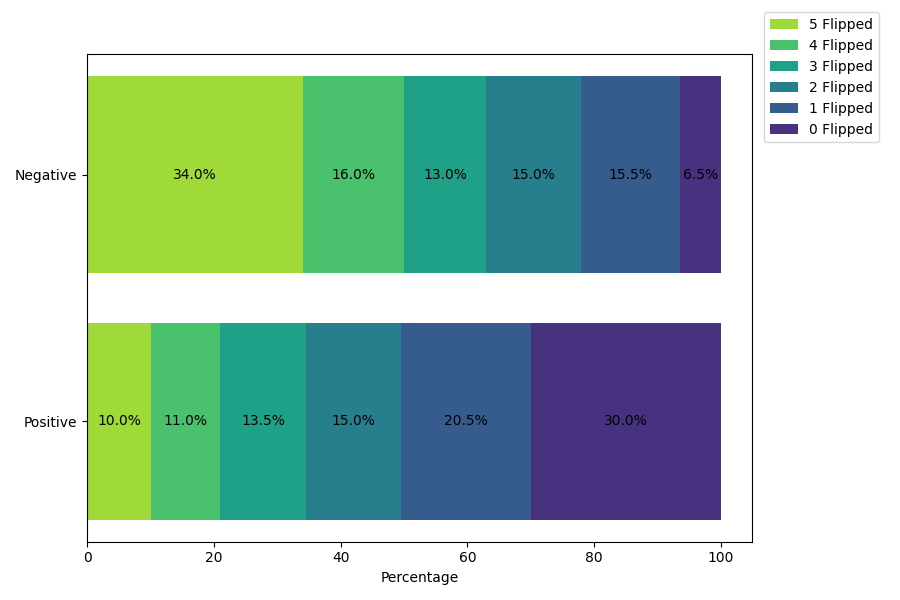
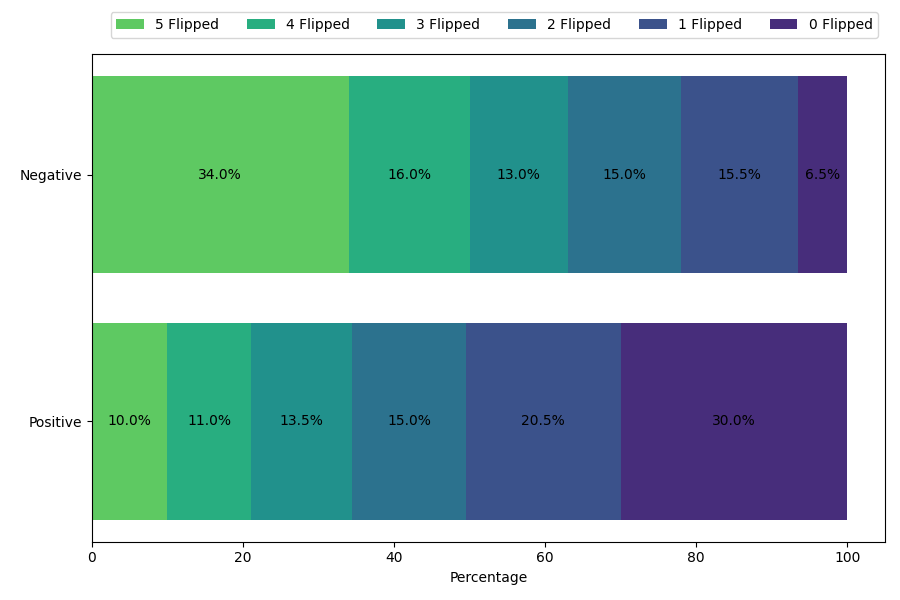
fixed color gradient

diff --git a/analysis/visualize.py b/analysis/visualize.py
@@ -63,8 +63,8 @@ def generate_labels_csv(models_dir, human_annotations_path):
 
 # Function to determine color based on value
 def get_color(value):
-    norm = Normalize(vmin=0, vmax=7)
-    return plt.cm.viridis(norm(6-value))
+    norm = Normalize(vmin=0, vmax=8)
+    return plt.cm.viridis(norm(7-value))
 
 def mean_absolute_distance(v1, v2):
     return np.mean(np.abs(v1 - v2)).round(2)
@@ -280,7 +280,7 @@ def run_analysis(models_dir, human_annotations_path, out_dir):
     lefts = np.zeros(len(col_names))
 
     for i, category in enumerate(categories):
-        color = get_color(i)
+        color = get_color(i+1)
 
         bar = ax.barh(col_names, flipped_percentage[:, i], left=lefts, label=category, color=color)
         bars.append(bar)
@@ -295,7 +295,7 @@ def run_analysis(models_dir, human_annotations_path, out_dir):
 
     # Adding labels and title
     ax.set_xlabel('Percentage')
-    ax.legend(loc='upper right', bbox_to_anchor=(1.2, 1.1))
+    ax.legend(loc='upper right', bbox_to_anchor=(1, 1.10), ncol=len(categories))
     plt.tight_layout()
 
     # Show the plot
@@ -347,9 +347,9 @@ def plot_model_distribution(all_model_results, model_names, key, dir_path):
     bars = []
     lefts = np.zeros(len(model_names))
     for i, category in enumerate(categories):
-        norm = Normalize(vmin=0, vmax=7)
-        value = (i * 2) + 1
-        color = plt.cm.viridis(norm(6 - value))
+        norm = Normalize(vmin=0, vmax=8)
+        value = (i * 2.5) + 1
+        color = plt.cm.viridis(norm(7 - value))
         bar = ax.barh(model_names, all_models_total[:, i], left=lefts, label=category, color=color)
         bars.append(bar)
 
